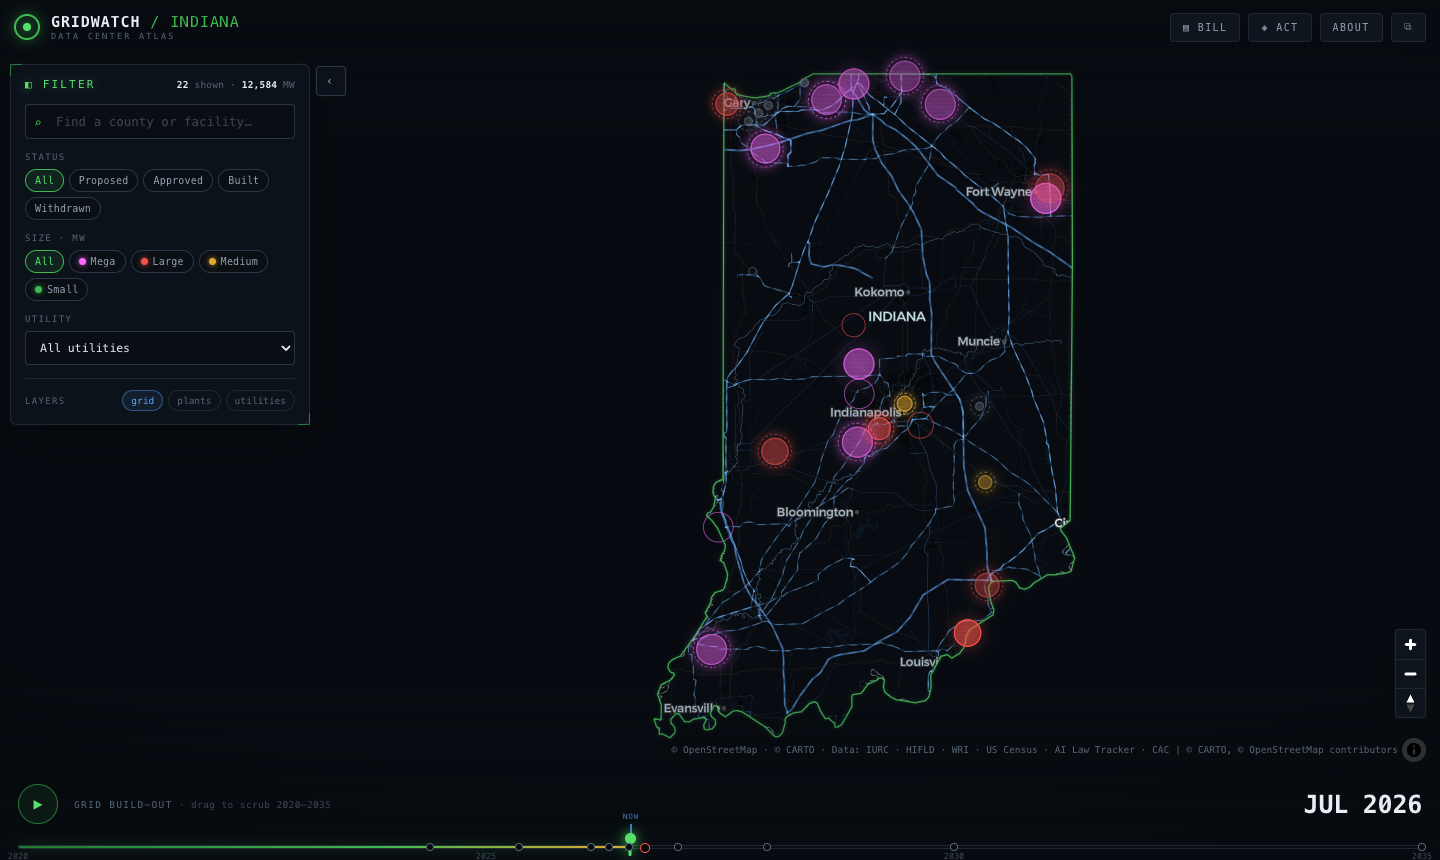
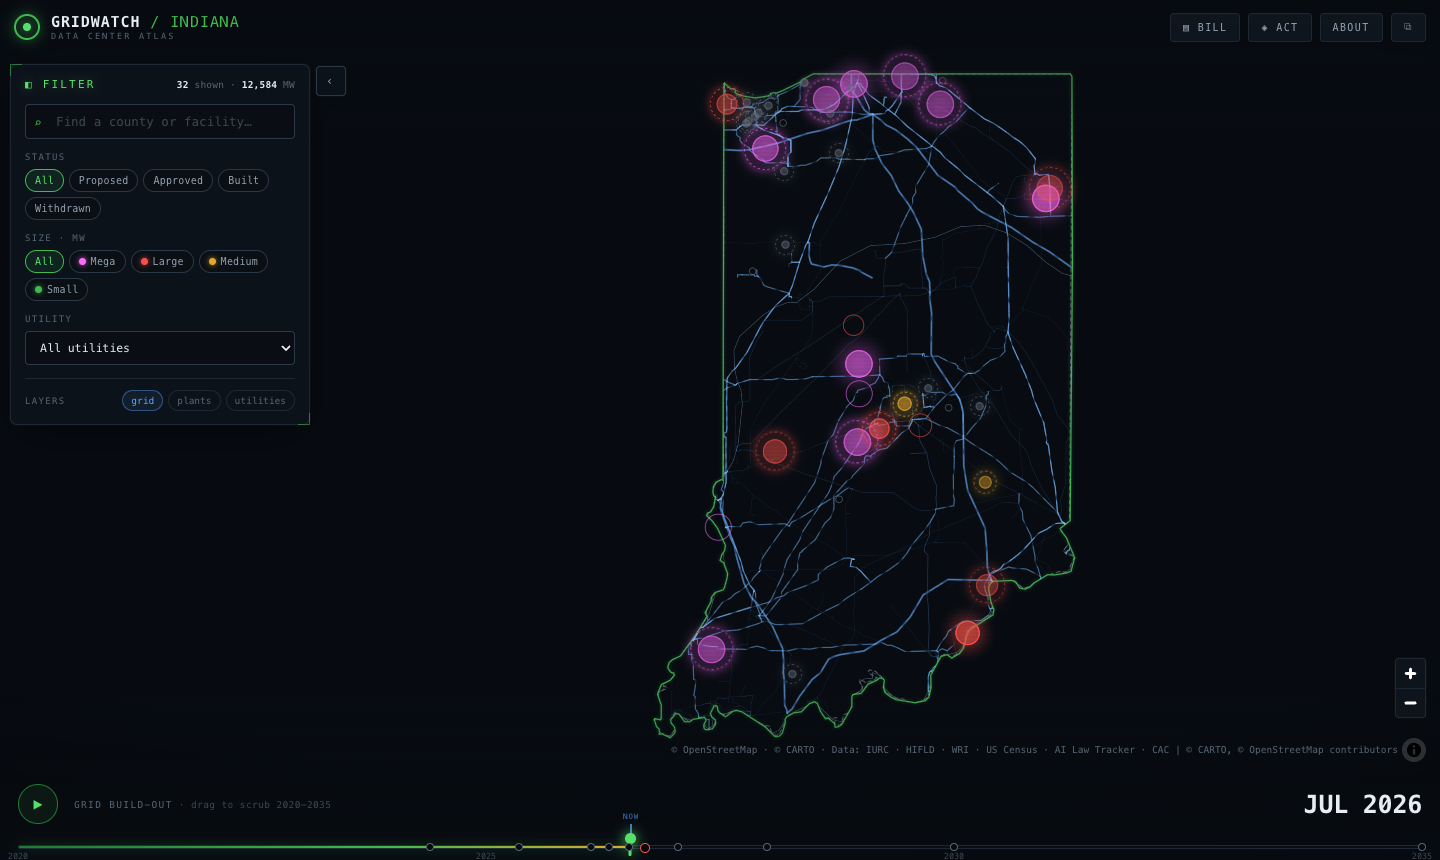
feat: center-marking circles, roads on zoom, +15 data centers, accurate bill eq
- Circles no longer balloon on zoom — they shrink to mark the precise center
  and reveal the town/roads beneath (shared radius curve + zoomFactor).
- Bright roads overlay (all classes incl. local/service) fades in as you zoom;
  facility select flies to z13.6 so local streets render.
- +15 tracked facilities (42 of 46) from the AI Law Tracker inventory —
  proposed, rumored, and withdrawn, undisclosed-capacity sites shown grey.
- Bill calculator rebuilt: accurate July-2026 rates + real per-utility bills,
  headline is the data-center-specific filed-infrastructure impact, equation
  shown, fully data-driven (edit JSON -> recomputes).

diff --git a/src/lib/map.ts b/src/lib/map.ts
@@ -16,6 +16,31 @@ function nodeRadius(mw: number): number {
   return clamp(3 + Math.sqrt(mw) * 0.55, 4, 16);
 }
 
+/* Circle radius vs zoom: roughly constant, then SHRINKS as you zoom in so the
+ * node marks the precise center and reveals the roads/town beneath it. */
+const R_STOPS: [number, number][] = [[5, 0.7], [9, 1], [13, 0.8], [17, 0.42]];
+function radiusExpr(prop: string, mult = 1): any {
+  const out: any[] = ["interpolate", ["linear"], ["zoom"]];
+  for (const [z, f] of R_STOPS) out.push(z, ["*", ["get", prop], f * mult]);
+  return out;
+}
+function radiusExprOffset(prop: string, add: number): any {
+  const out: any[] = ["interpolate", ["linear"], ["zoom"]];
+  for (const [z, f] of R_STOPS) out.push(z, ["+", ["*", ["get", prop], f], add]);
+  return out;
+}
+function zoomFactor(z: number): number {
+  const s = R_STOPS;
+  if (z <= s[0][0]) return s[0][1];
+  for (let i = 1; i < s.length; i++) {
+    if (z <= s[i][0]) {
+      const [z0, f0] = s[i - 1], [z1, f1] = s[i];
+      return f0 + ((z - z0) / (z1 - z0)) * (f1 - f0);
+    }
+  }
+  return s[s.length - 1][1];
+}
+
 export interface MapHandlers {
   onSelect: (id: string | null) => void;
   onHover: (f: Facility | null, pt: { x: number; y: number } | null) => void;
@@ -139,6 +164,23 @@ export class GridMap {
     } catch { /* layer names vary between styles */ }
     const firstLabel = (m.getStyle().layers || []).find((l) => l.type === "symbol")?.id;
 
+    /* ---- brighten every road (incl. local/service) as you zoom in ---- */
+    m.addLayer({
+      id: "roads-hi", type: "line", source: "carto", "source-layer": "transportation",
+      minzoom: 9,
+      layout: { "line-cap": "round", "line-join": "round" },
+      paint: {
+        "line-color": ["interpolate", ["linear"], ["zoom"], 9, "#2b3a49", 14, "#42586c", 17, "#5a7690"],
+        "line-opacity": ["interpolate", ["linear"], ["zoom"], 9, 0, 11.5, 0.45, 14, 0.85, 17, 0.95],
+        "line-width": ["interpolate", ["linear"], ["zoom"],
+          9, 0.3,
+          13, ["match", ["get", "class"], ["motorway", "trunk"], 1.6, "primary", 1.1,
+               ["secondary", "tertiary"], 0.7, 0.4],
+          17, ["match", ["get", "class"], ["motorway", "trunk"], 6, "primary", 4,
+               ["secondary", "tertiary"], 2.6, ["minor", "residential", "service", "track", "path"], 1.4, 1.2]],
+      },
+    }, firstLabel);
+
     /* ---- sources ---- */
     m.addSource("territories", {
       type: "geojson",
@@ -197,7 +239,7 @@ export class GridMap {
     m.addLayer({ id: "dc-ghost", type: "circle", source: "fac",
       filter: ["==", ["get", "ghost"], 1],
       paint: {
-        "circle-radius": ["interpolate", ["linear"], ["zoom"], 5, ["*", ["get", "r"], 0.7], 7, ["get", "r"], 11, ["*", ["get", "r"], 1.8]],
+        "circle-radius": radiusExpr("r"),
         "circle-color": "rgba(0,0,0,0)",
         "circle-stroke-color": ["get", "color"],
         "circle-stroke-width": 1.1,
@@ -208,7 +250,7 @@ export class GridMap {
     m.addLayer({ id: "dc-glow", type: "circle", source: "fac",
       filter: ["==", ["get", "ghost"], 0],
       paint: {
-        "circle-radius": ["interpolate", ["linear"], ["zoom"], 5, ["*", ["get", "glowR"], 0.7], 7, ["get", "glowR"], 11, ["*", ["get", "glowR"], 1.8]],
+        "circle-radius": radiusExpr("glowR"),
         "circle-color": ["get", "color"],
         "circle-opacity": ["get", "glowOp"],
         "circle-blur": 1.0,
@@ -218,7 +260,7 @@ export class GridMap {
     m.addLayer({ id: "dc-core", type: "circle", source: "fac",
       filter: ["==", ["get", "ghost"], 0],
       paint: {
-        "circle-radius": ["interpolate", ["linear"], ["zoom"], 5, ["*", ["get", "r"], 0.7], 7, ["get", "r"], 11, ["*", ["get", "r"], 1.8]],
+        "circle-radius": radiusExpr("r"),
         "circle-color": ["get", "color"],
         "circle-opacity": ["*", 0.55, ["get", "coreOp"]],
         "circle-stroke-color": ["get", "color"],
@@ -230,10 +272,7 @@ export class GridMap {
     m.addLayer({ id: "dc-selected", type: "circle", source: "fac",
       filter: ["==", ["get", "id"], "__none__"],
       paint: {
-        "circle-radius": ["interpolate", ["linear"], ["zoom"],
-          5, ["+", ["*", ["get", "r"], 0.7], 6],
-          7, ["+", ["get", "r"], 6],
-          11, ["+", ["*", ["get", "r"], 1.8], 6]],
+        "circle-radius": radiusExprOffset("r", 6),
         "circle-color": "rgba(0,0,0,0)",
         "circle-stroke-color": "#E6EDF3",
         "circle-stroke-width": 1.5,
@@ -347,12 +386,7 @@ export class GridMap {
         const el = (t - this.t0) / 1000;
         const pulse = 1 + 0.16 * Math.sin(el * 2.1);
         try {
-          this.map.setPaintProperty("dc-glow", "circle-radius", [
-            "interpolate", ["linear"], ["zoom"],
-            5, ["*", ["get", "glowR"], 0.7 * pulse],
-            7, ["*", ["get", "glowR"], pulse],
-            11, ["*", ["get", "glowR"], 1.8 * pulse],
-          ] as any);
+          this.map.setPaintProperty("dc-glow", "circle-radius", radiusExpr("glowR", pulse));
           this.map.setPaintProperty("dc-glow", "circle-opacity",
             ["*", ["get", "glowOp"], 0.75 + 0.25 * Math.sin(el * 2.1 + 1)] as any);
           const off = Math.round(((el * 1.6) % 7) * 2) / 2;
@@ -397,7 +431,7 @@ export class GridMap {
         this.labelHost.appendChild(el);
       }
       const p = m.project([f.lng, f.lat]);
-      const r = nodeRadius(f.mw_full ?? 0) * (z >= 7 ? (z >= 11 ? 1.8 : 1) : 0.7);
+      const r = nodeRadius(f.mw_full ?? 0) * zoomFactor(z);
       el.style.left = `${p.x}px`;
       el.style.top = `${p.y - r - 11}px`;
       el.style.opacity = f.id === this.selectedId ? "1" : z < 6 ? "0" : "0.82";
@@ -423,7 +457,7 @@ export class GridMap {
         this.labelHost.appendChild(el);
       }
       const p = m.project([f.lng, f.lat]);
-      const rNode = nodeRadius(mw) * (z >= 7 ? (z >= 11 ? 1.8 : 1) : 0.7);
+      const rNode = nodeRadius(mw) * zoomFactor(z);
       const d = Math.max(20, rNode * 2.8 + 7);
       el.style.left = `${p.x}px`;
       el.style.top = `${p.y}px`;
@@ -490,7 +524,7 @@ export class GridMap {
     if (id && fly) {
       const f = this.facById(id);
       // fly in to reveal local roads around the site (flat, top-down)
-      if (f) this.map.flyTo({ center: [f.lng, f.lat], zoom: 12.5, pitch: 0, bearing: 0, duration: 1600, essential: true });
+      if (f) this.map.flyTo({ center: [f.lng, f.lat], zoom: 13.6, pitch: 0, bearing: 0, duration: 1700, essential: true });
     }
   }
 

diff --git a/src/lib/modals.ts b/src/lib/modals.ts
@@ -52,19 +52,16 @@ export function openModal(title: string, bodyHTML: string, onMount?: (el: HTMLEl
   (r.querySelector(".modal-close") as HTMLElement)?.focus();
 }
 
-/* ---------------- Bill impact calculator ---------------- */
+/* ---------------- Bill impact calculator ----------------
+   Headline = data-center-specific impact: filed infrastructure $ split across
+   customers and amortized. Fully data-driven — edit bill_impact_models.json and
+   every number here recomputes. */
 function project(u: UtilityModel, kwh: number, a: AppData["bill"]["assumptions"]) {
   const base = kwh * (u.avg_rate_cents_kwh / 100);
-  const addApproved = base * (u.approved_increase.pct / 100);
-  const totalShift = u.cost_shifts.reduce((s, c) => s + c.usd, 0);
-  const monthlyShift = totalShift / u.customers / (a.amortize_years * 12);
-  const mid = addApproved + monthlyShift;
+  const dcTotal = u.cost_shifts.reduce((s, c) => s + c.usd, 0);
+  const dcMonthly = dcTotal / u.customers / (a.amortize_years * 12);
   const band = a.uncertainty_band_pct / 100;
-  // The approved increase is firm; only widen around the mid, and never let the
-  // low fall below the already-approved component shown in the breakdown.
-  const low = Math.max(addApproved, mid * (1 - band));
-  const high = mid * (1 + band);
-  return { base, addApproved, monthlyShift, totalShift, low, high };
+  return { base, dcTotal, dcMonthly, low: dcMonthly * (1 - band), high: dcMonthly * (1 + band) };
 }
 
 export function openBillCalc(data: AppData, prefillId?: string) {
@@ -72,7 +69,7 @@ export function openBillCalc(data: AppData, prefillId?: string) {
   const a = data.bill.assumptions;
   const options = utils.map((u) => `<option value="${esc(u.id)}">${esc(u.display_name)}</option>`).join("");
 
-  openModal("Bill Impact Projection", `
+  openModal("Bill Impact · Data Centers", `
     <div class="bc-field">
       <label for="bc-util">Your electric utility</label>
       <select class="bc-select" id="bc-util">${options}</select>
@@ -96,18 +93,20 @@ export function openBillCalc(data: AppData, prefillId?: string) {
       const u = utils.find((x) => x.id === sel.value) ?? utils[0];
       const k = Math.max(100, Math.min(5000, +kwh.value || a.typical_household_kwh));
       const p = project(u, k, a);
-      const range = p.high - p.low < 0.5
-        ? `+$${p.low.toFixed(0)}`
-        : `+$${p.low.toFixed(0)}–$${p.high.toFixed(0)}`;
+      const headline = p.dcTotal > 0
+        ? `<div class="bc-headline">+$${p.low.toFixed(0)}–$${p.high.toFixed(0)}<small> / mo</small></div>
+           <div class="bc-sub">from data-center infrastructure filed to date · ≈ +$${(p.low * 12).toFixed(0)}–$${(p.high * 12).toFixed(0)} / yr, spread over ~${a.amortize_years} yrs</div>`
+        : `<div class="bc-headline" style="color:var(--text-mid);font-size:22px">No DC docket filed yet</div>
+           <div class="bc-sub">No single data-center infrastructure cost is broken out for this utility — but rates are climbing (see below).</div>`;
       el.querySelector("#bc-result")!.innerHTML = `
-        <div class="bc-headline">${range}<small> / mo</small></div>
-        <div class="bc-sub">projected added cost within ~${a.amortize_years} yrs · ≈ +$${(p.low * 12).toFixed(0)}–$${(p.high * 12).toFixed(0)} / yr</div>
+        ${headline}
         <div class="bc-break">
-          <div class="bc-line"><span class="bl-k">Est. current monthly bill</span><span class="bl-v">$${p.base.toFixed(0)}</span></div>
-          <div class="bc-line"><span class="bl-k">IURC-approved rate increase (${u.approved_increase.pct}%)</span><span class="bl-v">+$${p.addApproved.toFixed(2)}/mo</span></div>
-          <div class="bc-line"><span class="bl-k">Data-center infra share ${p.totalShift ? `(${fmtUSD(p.totalShift)} ÷ ${fmtInt(u.customers)} customers)` : "(none filed yet)"}</span><span class="bl-v">+$${p.monthlyShift.toFixed(2)}/mo</span></div>
+          <div class="bc-line"><span class="bl-k">Your current monthly bill (${fmtInt(k)} kWh)</span><span class="bl-v">$${p.base.toFixed(0)}</span></div>
+          <div class="bc-line"><span class="bl-k">Overall rate change, ${esc(u.recent_increase.period)}</span><span class="bl-v">+${u.recent_increase.pct}%</span></div>
+          <div class="bc-line"><span class="bl-k">Filed data-center infrastructure${p.dcTotal ? ` (${fmtUSD(p.dcTotal)} ÷ ${fmtInt(u.customers)} customers)` : ""}</span><span class="bl-v">${p.dcTotal ? "+$" + p.dcMonthly.toFixed(2) + "/mo" : "none filed"}</span></div>
         </div>
-        <div class="mini-note" style="margin-top:12px">${esc(u.notes)} <a href="${safeUrl(u.approved_increase.source.url)}" target="_blank" rel="noopener">Source ▸</a></div>`;
+        <div class="mini-note" style="margin-top:12px">${esc(u.notes)} <a href="${safeUrl(u.recent_increase.source.url)}" target="_blank" rel="noopener">Source ▸</a></div>
+        <div class="mini-note" style="margin-top:8px;font-size:9px;color:var(--text-faint)">${esc(data.bill.equation)}</div>`;
     };
     sel.addEventListener("change", compute);
     kwh.addEventListener("input", () => {

diff --git a/src/lib/data.ts b/src/lib/data.ts
@@ -72,14 +72,15 @@ export interface TimelineFile {
 
 export interface UtilityModel {
   id: string; display_name: string; raw_match: string[];
-  customers: number; avg_rate_cents_kwh: number;
-  approved_increase: { pct: number; timing: string; source: Source };
+  customers: number; avg_rate_cents_kwh: number; typical_bill_1000kwh: number;
+  recent_increase: { pct: number; period: string; source: Source };
   cost_shifts: { usd: number; label: string; docket: string | null }[];
   notes: string; sources: Source[];
 }
 export interface BillFile {
   disclaimer: string;
-  statewide_context: { avg_bill_increase_this_year_pct: number; avg_bill_increase_decade_pct: number; source: Source };
+  equation: string;
+  statewide_context: { avg_bill_increase_this_year_pct: number; avg_bill_increase_decade_pct: number; avg_rate_cents_kwh: number; source: Source };
   assumptions: { amortize_years: number; uncertainty_band_pct: number; typical_household_kwh: number };
   utilities: UtilityModel[];
 }
